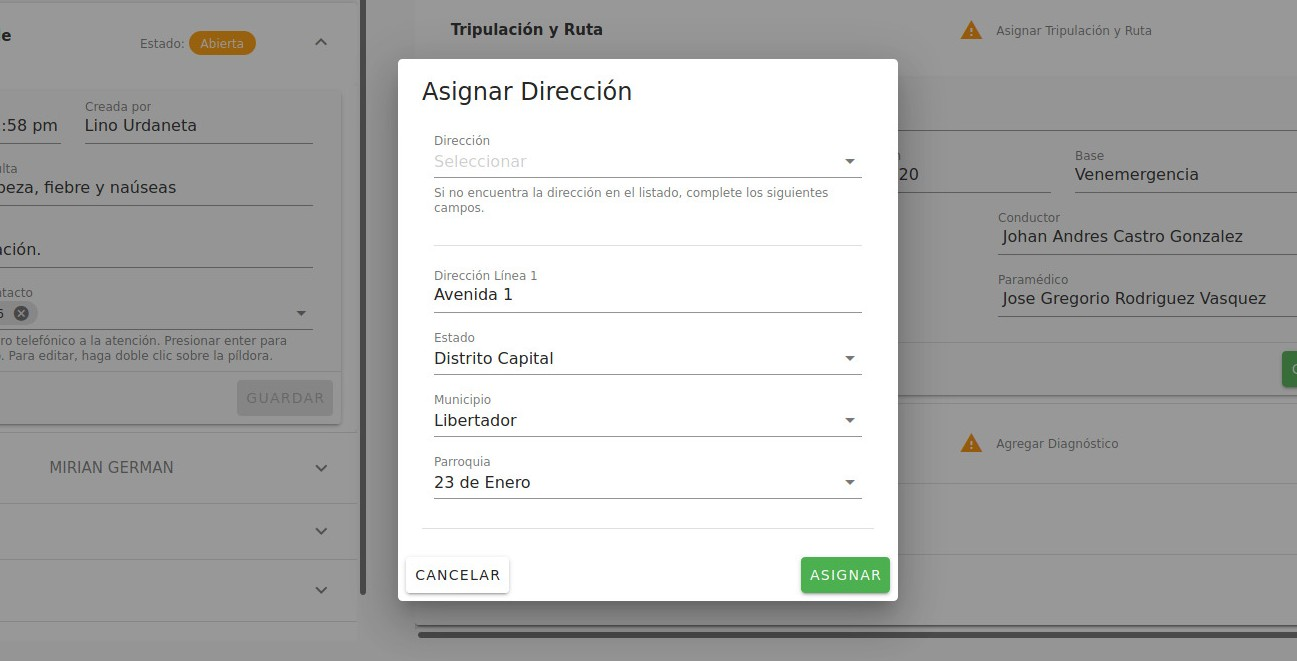
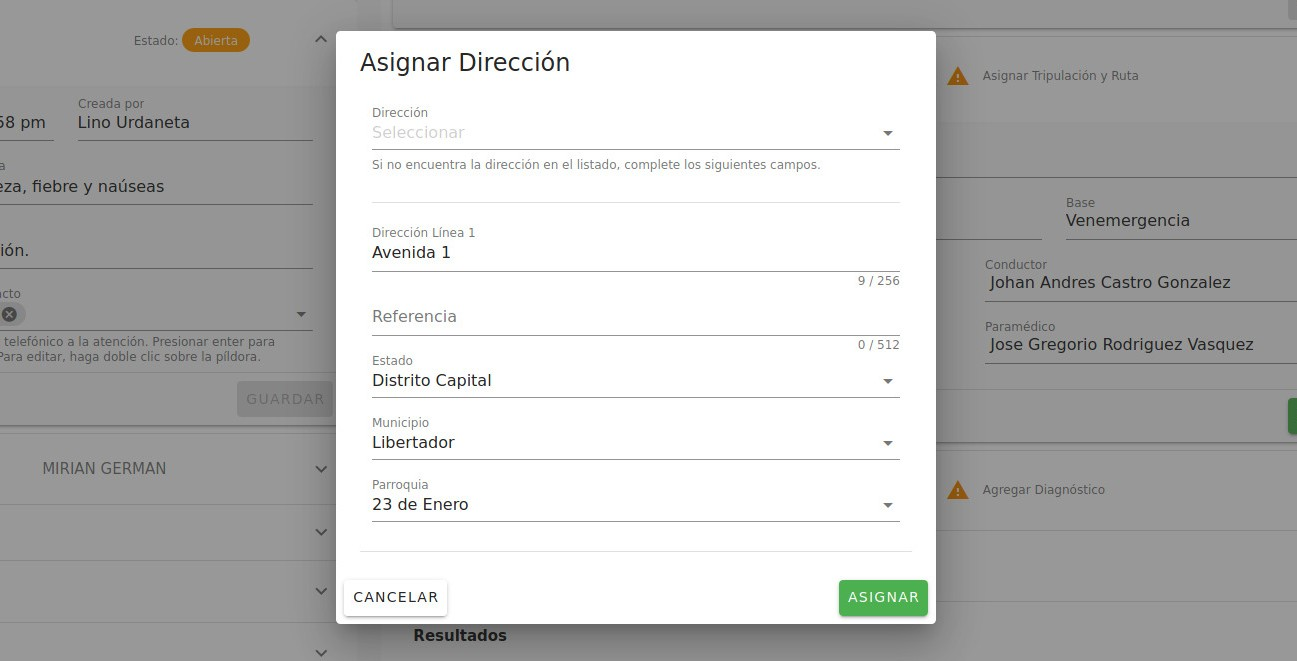
Editing documentation for roles: Dispatcher and Operator.

diff --git a/source/03_03despachador.rst b/source/03_03despachador.rst
@@ -20,8 +20,8 @@ rol de Despachador.
 Para acceder a la plataforma, debes escribir en la barra de dirección del
 navegador: https://atencion1.venedigital.com. Una vez allí podrás visualizar en
 la barra inferior un conjunto de enlaces, a través de los cuales podrás obtener
-información acerca de Atención-1, tener acceso a un manual de ayuda y a una
-guía de **Preguntas Frecuentes**, contactar al equipo de desarrollo vía correo
+información acerca de Atención-1, tener acceso a un manual de ayuda,
+guía de Preguntas Frecuentes y video tutoriales, contactar al equipo de desarrollo vía correo
 electrónico y reportar fallos/sugerencias.
 
 Para ingresar debes indicar el nombre de usuario y contraseña. Una vez dentro
@@ -68,7 +68,8 @@ redireccionado a la página de detalles de la atención seleccionada.
 
 .. image:: ../images/Despachador/DetallesAtención.jpg
 
-En esta página podrás visualizar dos secciones. La sección lateral izquierda contiene cinco paneles con los datos importantes de la atención: el panel de información general
+En esta página podrás visualizar dos secciones. La sección lateral izquierda contiene
+cinco paneles con los datos importantes de la atención: el panel de información general
 de la atención, el panel de datos relevantes del afiliado atendido, el panel de
 información general de las pólizas asociadas al afiliado, el panel del historial
 de atenciones del afiliado y el panel de documentos adjuntos solicitados para
@@ -86,7 +87,7 @@ Gestionar Atenciones y Servicios
 --------------------------------
 
 En lo referente a la gestión de atenciones y servicios, como usuario
-Despachador tienes permisos para crear nuevos servicios, visualizar todos
+Despachador tienes permisos para crear nuevas atenciones y servicios, visualizar todos
 los detalles de una atención y de un servicio e imprimir el ticket del
 servicio, las solicitudes (récipes y recomendaciones) y las notas de despacho.
 En cuanto a los permisos de actualización, como Despachador puedes:
@@ -101,6 +102,7 @@ En cuanto a los permisos de actualización, como Despachador puedes:
   Servicio**.
 * Editar la tripulación y ruta en el panel **Tripulación y Ruta**.
 * Editar los síntomas y diagnósticos en el panel **Diagnósticos**.
+* Editar la nota de despacho, en el panel **Nota de Despacho**.
 * Editar la información referente a las solicitudes en el panel **Solicitudes**.
 * Adjuntar resultados de laboratorio, en el panel **Resultados**.
 * Cancelar servicios, en el panel del flujo de trabajo.
@@ -110,11 +112,9 @@ En cuanto a los permisos de actualización, como Despachador puedes:
     Es importante destacar que como Despachador, podrás actualizar y atender los servicios de tipo AMD, TLD, EMD, PHD y LAB.
     Para un servicio OMT, solamente tienes acceso a la edición de los comentarios, en el panel **Información de Servicio**.
 
-Desarrollar:
-El Despachador puede crear nuevas atenciones...
 
 Atender servicio AMD
-********************
+~~~~~~~~~~~~~~~~~~~~
 
 Al iniciar la atención de un servicio AMD, lo primero que debes hacer es
 asignar la tripulación y, en caso de que no haya sido asignada previamente,
@@ -139,12 +139,14 @@ Si haces clic en el campo **Dirección**, se presentará un listado desde el cua
 seleccionar una dirección personal del afiliado, de un servicio ejecutado previamente
 o de un proveedor de salud. Si no encuentras la dirección deseada en este listado,
 también tendrás la opción de asignar una nueva dirección completando los campos
-presentados en la parte inferior de la ventana (Dirección Línea 1, Estado, Municipio
-y Parroquia). Para asignar una dirección, haz clic en el botón **Asignar**.
+presentados en la parte inferior de la ventana: Dirección Línea 1, Referencia (opcional), Estado, Municipio
+y Parroquia. Si desconoces la parroquia, selecciona la opción "Parroquia Desconocida".
+Para asignar una dirección, haz clic en el botón **Asignar**.
 
 Recuerda que una vez asignada la tripulación y el destino, debes hacer clic en el botón
 **Guardar** en la esquina inferior derecha del panel, para que la información se guarde
-efectivamente. Podrás notar que desaparecerá la advertencia **Asignar Tripulación y Ruta** (en la cabecera) e indicará la unidad asignada.
+efectivamente. Podrás notar que desaparecerá la advertencia **Asignar Tripulación y Ruta**
+(en la cabecera) e indicará la unidad asignada.
 
 .. image:: ../images/Despachador/TripulaciónYRutaAsignadas.jpg
 
@@ -153,7 +155,9 @@ haciendo clic en el botón **Paso 1 Completado** una vez ejecutado el despacho.
 
 .. image:: ../images/Despachador/AMDPanelFlujoDeTrabajoPaso1Activado.jpg
 
-Al hacer clic en este botón, la fecha y hora de despacho será establecida automáticamente. Podrás visualizar que el servicio cambiará su estatus a "En progreso" y que serás asignado como encargado de atender el servicio (ver el campo **Atendido por**).
+Al hacer clic en este botón, la fecha y hora de despacho será establecida automáticamente.
+Podrás visualizar que el servicio cambiará su estatus a "En progreso" y que serás
+asignado como encargado de atender el servicio (ver el campo **Atendido por**).
 
 .. image:: ../images/Despachador/AMDPanelFlujoDeTrabajoPaso1Completado.jpg
 
@@ -163,7 +167,7 @@ correspondiente. Las fechas y horas se asignarán automáticamente.
 
 También tienes la opción de editar las fechas y horas asignadas. Al hacer clic
 en el botón de "edición" (con ícono de "lápiz"), en la esquina superior derecha
-del panel de flujo de trabajo, se presentará una ventana de diálogo donde tendrás
+del área donde se visualiza el flujo de trabajo, se presentará una ventana de diálogo donde tendrás
 la posibilidad de asignar nuevas fechas y horas y de editar aquellas asignadas previamente.
 
 .. image:: ../images/Despachador/EditarFechasYHoras.jpg
@@ -171,7 +175,8 @@ la posibilidad de asignar nuevas fechas y horas y de editar aquellas asignadas p
 En el panel **Información de Servicio**, podrás visualizar los detalles generales
 del servicio. En caso de que incluya la realización de exámenes de laboratorio,
 se presentará en la cabecera del panel (donde se encuentra el título) un ícono azul
-de **matraz de Erlenmeyer**. Al posicionar el cursor sobre el ícono aparecerá el mensaje "Incluye exámenes de laboratorio". Podrás consultar el conjunto de exámenes en
+de **matraz de Erlenmeyer**. Al posicionar el cursor sobre el ícono aparecerá el mensaje
+"Incluye exámenes de laboratorio". Podrás consultar el conjunto de exámenes en
 el campo **Exámenes de laboratorio** y editar los comentarios y el motivo de servicio.
 
 .. image:: ../images/Despachador/AMDInformaciónDeServicio.jpg
@@ -189,7 +194,9 @@ Debes seleccionar al menos un item en el campo **Diagnóstico**. Si el
 diagnóstico no se encuentra en el listado que se despliega, puedes escribirlo
 en el campo **Otros diagnósticos**. Al terminar, haz clic en **Guardar**.
 
-En el panel **Solicitudes** podrás agregar información referente al récipe, indicaciones, exámenes paraclínicos, observaciones y recomendaciones. Al terminar, haz clic en "Guardar".
+En el panel **Solicitudes** podrás agregar información referente al récipe,
+indicaciones, exámenes paraclínicos, observaciones y recomendaciones.
+Al terminar, haz clic en "Guardar".
 
 .. image:: ../images/Despachador/AMDSolicitudes.jpg
 
@@ -204,35 +211,143 @@ una descripción (opcional). Al terminar, haz clic en **Adjuntar**.
 
 .. image:: ../images/Despachador/AdjuntarResultado.jpg
 
+.. note::
+    Los servicios AMD con estatus Cancelado, Abierto o Retrasado no requieren
+    Diagnóstico ni Resultados.
+
 .. warning::
     Recuerda que como Despachador debes registrar al menos un diagnóstico y,
     en caso de que el servicio AMD incluya exámenes de laboratorio, adjuntar los
     resultados de los mismos, para que posteriormente el Coordinador pueda cerrar
     el servicio completado.
 
-.. note::
-    Los servicios AMD con estatus Cancelado, Abierto o Retrasado no requieren
-    Diagnóstico ni Resultados.
-
 Atender servicio TLD
-********************
+~~~~~~~~~~~~~~~~~~~~
+
+Al iniciar la atención de un servicio TLD, lo primero que debes hacer es
+asignar la tripulación y, en caso de que no hayan sido asignadas previamente,
+las direcciones de origen y destino. Para ello, te ubicas en el panel **Tripulación y Ruta**.
+
+TODO: agregar imagen
+
+El procedimiento para la asignación de tripulación y direcciones es análogo al
+explicado para la atención de un servicio AMD.
+
+Una vez asignadas la tripulación y ruta, puedes dar inicio al flujo de trabajo del servicio TLD,
+haciendo clic en el botón "Paso 1 Completado" una vez ejecutado el despacho.
+Recuerda que existen dos tipos de traslados: "simple" e "ida y vuelta",
+a continuación te presentamos ambos flujos de trabajo.
+
+TLD simple
+
+TODO: agregar imagen
+
+TLD ida y vuelta
+
+TODO: agregar imagen
+
+Al recibir los reportes de completación de cada paso del flujo de trabajo,
+debes ir registrando cada paso como completado haciendo clic en el botón
+correspondiente. Las fechas y horas se asignarán automáticamente.
+
+Recuerda que tienes la opción de editar las fechas y horas asignadas, haciendo clic
+en el botón de "edición" (con ícono de "lápiz"), en la esquina superior derecha
+del panel de flujo de trabajo.
+
+En el panel **Información de Servicio**, podrás visualizar los detalles generales
+del servicio. También podrás editar los comentarios y el motivo de servicio.
+Si el traslado corresponde a una emergencia, podrás visualizar una alerta roja
+en la parte derecha de la cabecera del panel. Al posicionar el cursor sobre el
+ícono aparecerá el mensaje "EMERGENCIA".
+
+Es responsabilidad del Despachador completar la información del panel **Diagnósticos**.
+
+.. warning::
+    Recuerda que como Despachador debes registrar al menos un diagnóstico,
+    para que posteriormente el Coordinador pueda cerrar el servicio completado.
+
+.. note::
+    Los servicios TLD con estatus Cancelado, Abierto o Retrasado no requieren
+    Diagnóstico.
 
 Atender servicio EMD
-********************
+~~~~~~~~~~~~~~~~~~~~
+
+Es responsabilidad del Despachador completar la información de los paneles
+**Diagnósticos** y **Nota de Despacho**. En caso de que la nota de despacho haya sido
+completada, el Despachador debe verificarla.
+
+.. note::
+    Los roles Operador, Médico, Despachador, Coordinador, Gerente y Director,
+    están autorizados para crear y/o editar la nota de despacho.
+
+En el panel **Diagnósticos** debes añadir información acerca de los diagnósticos
+detectados en la ejecución del servicio.
+
+TODO: agregar imagen
+
+En el panel **Nota de Despacho** podrás crear, visualizar y editar el listado de los medicamentos,
+insumos y/o equipos médicos a ser entregados. Es importante señalar que si la
+nota de despacho incluye un equipo médico, debes programar un nuevo servicio EMD
+para su búsqueda.
+
+.. warning::
+    Recuerda que como Despachador debes registrar al menos un diagnóstico, así como
+    completar y verificar la nota de despacho, para que posteriormente el Coordinador
+    pueda cerrar el servicio completado.
+
+.. note::
+    Los servicios EMD con estatus Cancelado, Abierto o Retrasado no requieren
+    Diagnóstico ni Nota de Despacho.
 
 Atender servicio PHD
-********************
+~~~~~~~~~~~~~~~~~~~~
+
+TODO: desarrollar
 
 Atender servicio LAB
-********************
+~~~~~~~~~~~~~~~~~~~~
+
+TODO: desarrollar
+
+Crear una atención
+~~~~~~~~~~~~~~~~~~
+
+Como Despachador, podrás crear nuevas atenciones. Ver sección :ref:`crear-atencion`.
 
 Crear servicio
-**************
+~~~~~~~~~~~~~~
 
-Como Despachador podrás crear servicios de tipo OMT, AMD, TLD, EMD y LAB.
+Como Despachador podrás crear servicios de tipo OMT, AMD, TLD, EMD, PHD y LAB.
+Ver detalles en las siguientes secciones:
+
+* :ref:`crear-OMT`
+* :ref:`crear-AMD`
+* :ref:`crear-TLD`
+* :ref:`crear-EMD`
+* :ref:`crear-PHD`
+* :ref:`crear-LAB`
+
+Recuerda que en cualquier fase de ejecución de un servicio, podrás crear un nuevo servicio sucesivo,
+haciendo clic en el botón **Servicio sucesivo**. Al crear un servicio de esta manera,
+tienes la ventaja de que la plataforma asigna automáticamente ciertos datos relevantes
+asociados al servicio desde el cual se está creando el sucesivo: las direcciones
+de origen y destino, los diagnósticos y, en el caso de un servicio EMD,
+el origen de solicitud del mismo. Durante la creación de un servicio sucesivo,
+tendrás la opción de editar algunos de estos datos.
+
+Detalles sobre la creación de un servicio sucesivo
+**************************************************
+
+1) La dirección de origen de un servicio TLD será asignada como la dirección de destino del servicio sucesivo AMD/EMD/LAB.
+2) La dirección de destino de un servicio AMD/EMD/LAB será asignada como la dirección de origen del servicio sucesivo TLD.
+3) La dirección de destino de un servicio HHC/HMD/LAB será asignada como la dirección de destino del servicio sucesivo AMD/EMD/LAB.
+4) La información contenido en los campos **Diagnósticos** y **Otros Diagnósticos** será asignada al nuevo servicio sucesivo.
+5) El origen de solicitud de un servicio OMT/AMD será asignado al servicio sucesivo EMD (no editable).
+
 
 Cancelar servicio
-*****************
+~~~~~~~~~~~~~~~~~
 
 La cancelación de un servicio puede ser ejecutada por cualquier
 usuario (a excepción del rol Asistente) y puede ocurrir en cualquier momento
@@ -251,6 +366,16 @@ y el servicio será cancelado inmediatamente.
 .. image:: ../images/Despachador/CancelarServicio.jpg
 
 .. _gestionar_tripulaciones:
+
+Imprimir ticket de servicio
+~~~~~~~~~~~~~~~~~~~~~~~~~~~
+
+TODO: editar
+
+Vamos a ver ahora cómo se hace la impresión de un ticket en el que se incluyen todos los detalles de un servicio. En todo momento vemos que dentro de la pestaña del servicio tenemos habilitado un ícono con la imágen de una impresora que sirve precisamente para imprimir los detalles del servicio.
+Recordemos que en la impresión del ticket del servicio se imprime toda la información que se ha cargado en ese servicio. Es decir, si tenemos una tripulación asignada se informa y si tenemos un Diagnóstico también se informa. Sin embargo, si algunos de esos campos falta pues no aparecen al momento de la impresión del ticket, con lo cual es importante imprimir el ticket solamente en el momento en el que toda la información relativa a cada uno de los servicios involucrados, en este caso al servicio que se quiere imprimir, esté completamente indicada. 
+Al seleccionar cualquiera de los servicios disponibles y hacer clic en **Imprimir ticket** del servicio se despliega la información disponible que será la que se refleja en el ticket impreso. Hacemos clic en el botón **Imprimir** y se genera un archivo en PDF que se pide a través de la instancia y se debe seleccionar la ubicación dentro de la computadora para ser almacenado.
+Esa información se almacena en la carpeta que seleccione la persona y ya se ha generado el ticket respectivo en formato PDF.
 
 Gestionar Tripulaciones
 -----------------------
@@ -290,54 +415,3 @@ Si deseas borrar una tripulación en particular, haz clic sobre el botón de
 la eliminación de la tripulación, haz clic en **Borrar**.
 
 .. image:: ../images/Despachador/AvisoBorrarTripulación.jpg
-
-
-Despachador. Crear tripulación.
-------------------------------
-Una de las tareas que debe hacer el Despachador es la Creación de las tripulaciones. Las tripulaciones se crean a través del Menú que se encuentra en la esquina superior izquierda y que nos permite acceder también al Panel de Atenciones. Al hacer clic en el menú de Tripulaciones se observa si ya hay tripulaciones creadas. En el caso que no hayan tripulaciones creadas o que se quiera añadir alguna, se debe hacer clic en el botón verde con el signo más (+) y proceder a ingresar todos los datos solicitados.
-El Nombre de la Tripulación se sugiere que sea un nombre que pueda servir al momento de asignar la tripulación de manera orientativa y que incluya, por ejemplo, el tipo de vehículo que se trate. Sin embargo esto no es limitativo, cualquier nombre se le puede colocar. Vamos a colocarle, por ejemplo, Alfa1 luego indicando la fecha: Alfa1_31_08.
-Luego colocamos la fecha y hora en la cual comienza esa guardia, la fecha en el formato de: día, mes y año. El formato de la hora en formato militar, es decir, a partir de las 12 del mediodía se coloca 13 y así sucesivamente hasta el 24. Igualmente se coloca la fecha y hora final o de cierre de esta tripulación.
-En lo referente a la Base le indicamos en dónde está ubicada esa tripulación. Luego le asignamos una unidad y le asignamos también el personal que está asociado a esa tripulación y pulsamos en **Cerrar** para validar que, efectivamente, se creó la tripulación.
-Una vez que se ha creado se observa desplegada en la lista de tripulaciones disponibles para ese día. Con esto hemos creado una tripulación
-
-Despachador. Atender AMD.
-------------------------
-Vamos ahora con el procedimiento de atención como Despachador de un servicio AMD.
-Seleccionamos el servicio y hacemos clic en el botón de **Atender** y allí se nos despliega el detalle tanto de la atención como del servicio. Se tienen dos (02) secciones:
-*En la sección del lado izquierdo: tenemos todo el detalle de la atención, la hora y fecha de la creación, quién lo tomó, el teléfono que se registró al momento de crear la atención. Tenemos datos sobre el afiliado, la póliza, el historial de atenciones (en caso de que lo haya) y se nos permite agregar Documentos adjuntos en el caso que sea necesario.
-*En la sección del lado derecho se encuentran los datos del servicio seleccionado para atender, incluyendo el estatus, si se desea crear un Servicio sucesivo, a través del botón Servicio sucesivo o Cerrar el servicio a través del botón Cancelar servicio. Se nos indica también en esta sección, quién creó el servicio y algún detalle adicional así como la tripulación y el diagnóstico.
-Como ejemplo, seleccionamos un servicio **En espera** para atender un servicio de AMD. Lo primero que debemos hacer es asignar tripulación. Entonces nos desplazamos en la sección del lado derecho hasta la sección de **Tripulación** donde se nos indica cuál es la dirección y procedemos a asignar la tripulación. En el menú desplegable van a aparecer todas las tripulaciones disponibles en función de las que hayamos creado al inicio del día. Al seleccionarla se carga toda la información relativa tanto a las personas (médicos y paramédicos que están en la unidad) como a la unidad, la base, etc. Hacemos clic en el botón **Guardar** y ya no aparece el indicativo (alerta) de asignar tripulación.
-En el caso de faltar el **Diagnóstico** es importante notificar al Coordinador o al Médico que tomó esta solicitud para que ingrese el diagnóstico. En todo caso, luego de asignar la tripulación podemos marcar el **Paso 1 completado**. Antes de asignar la tripulación no podíamos completar el paso 1 que es el inicio del despacho del servicio. Según se van completando los distintos pasos de este servicio de atención médica, vamos señalando los pasos completados donde se registra en cada uno la hora en la que se tildó como completado. Se indica la Llegada al Destino, Salida del Destino y la Llegada a Base o paso 5 completado y en este momento ya se da por completada la atención del servicio AMD.
-
-Despachador. Atender TLD, EMD o LAB.
------------------------------------
-Vamos a atender ahora como Despachador, un servicio TLD. El procedimiento a seguir para la atención del servicio de Traslado es básicamente el mismo que se sigue para la atención de servicios como EMD, TLD y AMD. 
-Entramos en la pestaña del servicio haciendo clic en el botón de **Atender** en la lista de atenciones y una vez dentro del servicio en la sección donde está el detalle del servicio (sección del lado derecho) se asigna la tripulación que es básicamente lo que se requiere para que se habilite el ir completando los pasos. Ya que el botón de **Paso 1 completado** se encuentra sombreado cuando el servicio no cuenta con una tripulación, lo primero que se debe hacer es Asignar la tripulación. Se asigna la tripulación, se verifica el nombre de las personas que integran esa tripulación, se hace clic en el botón **Guardar**. Se verifica que se ha actualizado la información ya que desaparece la señal de alerta que se debe agregar la tripulación y porque, además, ya el botón de **Paso 1 completado** está habilitado. Pulsamos el **Paso 1 completado** y según vamos teniendo información por comunicación directa con la tripulación de que los siguientes pasos se van completando, vamos pulsando en los ítems correspondientes. Por ejemplo, en el caso de un traslado solo de ida, es decir, es un traslado que sale de la base, llega a la casa de la persona, y la traslada a otro lugar (por ejemplo, un Centro Hospitalario) y de allí retorna a la base. Una vez que vamos marcando en cada paso completado, se registra la fecha y hora en la que se culminó cada una de las etapas de ese traslado. Una vez que pulsamos en la etapa número 7 que, en este caso, es la llegada de nuevo a la base vemos que el servicio pasa de estado **En proceso** a **Estado Completado**, es decir, que ya ese servicio ha terminado.
-Básicamente es el mismo procedimiento el que vamos a seguir como Despachador para atender todo servicio que involucra la asignación de una tripulación y su desplazamiento hasta el lugar en el que se encuentra el afiliado o hasta el lugar donde se le va a prestar la atención médica, si es de trasladar a un equipo médico.
-Con esto ya hemos atendido un TLD.
-
-Despachador. Atender PHD.
-------------------------
-Como Despachador vamos a hacer ahora la atención de un PHD. Como el PHD es una atención programada se despliega en la sección del Panel de atención que indica **Próximas programadas**. Es importante señalar que allí se ubican las atenciones que se encuentran en un margen próximo de hasta dos horas; esto es así para que el Despachador pueda con ello facilitar la organización de las rutas de las distintas tripulaciones en la atención.
-Como ejemplo, se tiene una atención próxima programada para las 06:00 pm que involucra evidentemente un servicio PHD que es el servicio programado. Sin embargo, en esta sección pudiera aparecer también cualquier otro servicio de los que estén programado. Hacemos clic en el botón de **Atender** y pasamos a la pestaña de detalles de los servicios. Allí observamos que se ha generado automáticamente una pestaña de servicio para cada uno de los servicios involucrados aún cuando sean fechas posteriores.
-Como un servicio de traslado que involucra una tripulación, lo primero que debemos hacer es asignar precisamente la tripulación y es lo que nos indica la señal de advertencia que dice **Asignar Tripulación** y es la razón por la cual el botón de **Paso 1 Completado** no está habilitado. Asignamos la tripulación del modo en que se asigna normalmente, verificamos el nombre de los componentes de esa tripulación, pulsamos en **Guardar** y verificamos que se han guardado bien los datos de tripulación. Además ya no aparece la señal de advertencia de Asignar Tripulación y aparece habilitado el **Paso 1 Completado**. De esta forma vamos señalando al igual que en los otros servicios, cada uno de los pasos según se van completando y se verifica en la parte inferior del paso, la fecha y hora en la que fue completado.
-Cuando se concluyen todos los pasos relativos, en este caso, al PHD el estado del servicio pasa de **En Progreso** a **Completado**. Si regresamos al historial de atenciones observamos que ya no está ese servicio marcado con amarillo que es *Por atender*, sino en color azul que significa que ya está completado.
-Con esto hemos atendido un servicio PHD.
-
-Despachador. Imprimir ticket.
-----------------------------
-Vamos a ver ahora cómo se hace la impresión de un ticket en el que se incluyen todos los detalles de un servicio. En todo momento vemos que dentro de la pestaña del servicio tenemos habilitado un ícono con la imágen de una impresora que sirve precisamente para imprimir los detalles del servicio.
-Recordemos que en la impresión del ticket del servicio se imprime toda la información que se ha cargado en ese servicio. Es decir, si tenemos una tripulación asignada se informa y si tenemos un Diagnóstico también se informa. Sin embargo, si algunos de esos campos falta pues no aparecen al momento de la impresión del ticket, con lo cual es importante imprimir el ticket solamente en el momento en el que toda la información relativa a cada uno de los servicios involucrados, en este caso al servicio que se quiere imprimir, esté completamente indicada. 
-Al seleccionar cualquiera de los servicios disponibles y hacer clic en **Imprimir ticket** del servicio se despliega la información disponible que será la que se refleja en el ticket impreso. Hacemos clic en el botón **Imprimir** y se genera un archivo en PDF que se pide a través de la instancia y se debe seleccionar la ubicación dentro de la computadora para ser almacenado.
-Esa información se almacena en la carpeta que seleccione la persona y ya se ha generado el ticket respectivo en formato PDF.
-
-Despachador. Crear servicio sucesivo programado.
-------------------------------------------------
-Vamos a crear como Despachador un servicio sucesivo, el cual se puede crear en cualquier fase de un servicio. No necesariamente supone la cancelación del servicio que lo origina sino que de alguna manera se toma la información a partir de allí.
-Por ejemplo, en el caso de tener un servicio AMD podemos generar un servicio sucesivo haciendo clic en el botón **Servicio sucesivo**, allí se indica el tipo de servicio sucesivo que vamos a solicitar, en este caso, pudiera ser un servicio EMD. Luego indicamos el motivo y el destino. El servicio contiene información acerca de qué viene derivado de un servicio AMD y se puede indicar que es un servicio programado, esto es, que no es atendido en ese momento sino que va a ser en una fecha posterior. Allí se indica la fecha y la hora en la que se va a prestar el servicio, pulsamos en el botón **Crear** y observamos que se despliega como una EMD en otra pestaña dentro de la misma atención de este afiliado.
-
-Despachador. Cancelar servicio.
--------------------------------
-Veamos ahora la funcionalidad de Cancelar un servicio desde el usuario Despachador.
-En cualquiera de las pestañas de los servicios, siempre que el servicio no haya sido Completado o Cancelado, puede cancelarse el mismo. Esto lo vemos cuando está activado el botón de **Cancelar Servicio** en color rojo.
-Seleccionamos el servicio que queremos cancelar y hacemos clic en el botón **Cancelar Servicio** y se despliega una ventana en la que debemos indicar *el Motivo de Cancelación*, el cual va a depender de las circunstancias, luego pulsamos en **Confirmar** y el servicio ha sido cancelado exitosamente.

diff --git a/source/03_01operador.rst b/source/03_01operador.rst
@@ -59,6 +59,14 @@ Al atender una llamada, lo primero que debemos hacer es proceder a crear una **a
 #. Una vez agregada esta información se hace clic en el botón **Crear Servicio**, y luego de visualizar el mensaje de "Atención creada existosamente", se visualiza el servicio listado en el panel de atenciones en espera.
 #. Desde el panel de atenciones, podemos comprobar detalles de la atención y del(los) servicio(s) asociado(s), haciendo clic en el icono de atender servicio.
 
+.. _crear-OMT:
+
+*********************
+Crear un servicio OMT
+*********************
+
+TODO: desarrollar
+
 .. _crear-AMD:
 
 *********************
@@ -125,6 +133,8 @@ Crear TLD
 A continuación crearemos un servicio tipo traslado TLD. Lo haremos a partir de una atención que ya esté creada sin ningún tipo de servicio asociado por el momento. En el panel de atención nos vamos a editar y veremos que, en el panel que se despliega, esta atención no tiene ningún tipo de servicio asociado. Para continuar, pulsamos el botón circular verde con el signo positivo y escogemos el tipo de servicio que será el TLD. 
 Entre los datos que debemos suministrar para la generación del servicio debemos indicar el motivo de consulta. En este caso el motivo ya lo tiene debido a que se suministró cuando la atención fue creada. También podemos agregar algún comentario que nos parezca pertinente. Vamos a escribir en **el motivo de servicio** la realización de RX como ejemplo para este ejercicio, e indicamos el origen. Al pulsar sobre la palabra **origen** se desplegará una ventana en la que debemos suministrar una dirección. En este caso, daremos la dirección donde se irá a buscar a la persona y la asignamos. Sobre el campo **destino** debemos indicar la dirección donde será llevada esta persona (clínica, hospital, etc.). Al asignar el destino también debemos indicar el tipo de traslado que realizaremos. Por ejemplo, si es un traslado de emergencia, ida y vuelta, UCI, etc. En este caso podemos utilizar un traslado ida vuelta, que implica buscar a la persona para llevarla a realizarse determinados estudios y luego devolverla a su domicilio. Creamos el servicio y verificamos su creación ya que en la pantalla se recarga la información sobre los detalles de este servicio que ha sido añadido a la atención y podemos visualizar todos los pasos que lleva realizar dicho servicio TLD. Sin embargo, también podemos verificar la información en el panel de atención y notaremos que la atención que no tenía ningún tipo de servicio ahora le ha sido agregado uno. Siguiendo estos pasos hemos podido crear el tipo TLD con todas las características correspondientes. 
 
+.. _crear-PHD:
+
 ***************
 Creación de PHD
 ***************
@@ -132,6 +142,8 @@ Creación de PHD
 Vamos a crear un servicio de hospitalización domiciliaria PHD. La creación de este servicio es diferente al de los otros tipos de servicios que se utilizan en Atención-1. Por ello, la atención que se crea puede contener únicamente este servicio. Si el afiliado requiere otro tipo de servicio, entonces creamos una nueva atención para él. 
 Creamos la atención con el mismo procedimiento con el que la hemos creado anteriormente y le agregamos el servicio que es PHD. Como en los casos anteriores, los servicios que requieren traslado van a pedir dirección y motivo de servicio. Podemos indicar, por ejemplo, que el **motivo de servicio** es suministro de tratamiento endovenoso. El destino es la ubicación donde debe dirigirse la unidad o vehículo a dar el servicio, así que podemos introducirla de la misma forma que hemos hecho anteriormente. Es necesario destacar que ya que los servicios PHD no necesariamente se originan dentro de Atención-1, debemos indicar por qué fuente llegó la solicitud de este servicio. Para hacerlo utilizamos el campo **origen de solicitud de servicio**. Este es un campo obligatorio. Entre todas las opciones que se despliegan vamos a seleccionar la opción de **correo electrónico**, por lo que la solicitud, entonces, fue realizada a través de correo electrónico. Ahora podemos proceder a programar la fecha o las fechas en las cuales se le va a ofrecer al afiliado la atención médica domiciliaria. Pulsamos el círculo verde con el signo más "+" y podemos seleccionar la primera fecha y hora. Debemos utilizar la denominación am o pm para diferenciar el bloque de la mañana con el de la tarde. Después de agregar la primera fecha, seguimos el mismo procedimiento en caso de necesitar agregar más. Si es un tratamiento de varios días seguidos es importante dejar la programación con toda la información detallada, ya que por esta vía el despachador podrá ver todos los servicios que debe atender próximamente. 
 Una vez que hemos creado el servicio lo podemos ver en las atenciones en la sección de próximas programadas. Ahí podemos verificar que la fecha o las fechas fueron agregadas correctamente. También aparecerá la hora en que se realizó la llamada y el nombre del afiliado. Al momento de aproximarse la hora de la atención, esta pasará a desplegarse en la sección de atención en espera . 
+
+.. _crear-LAB:
 
 **************************
 Crear Servicio Laboratorio
